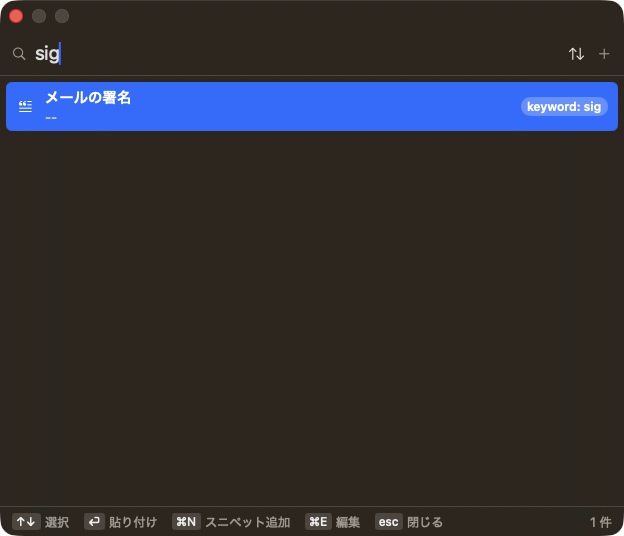
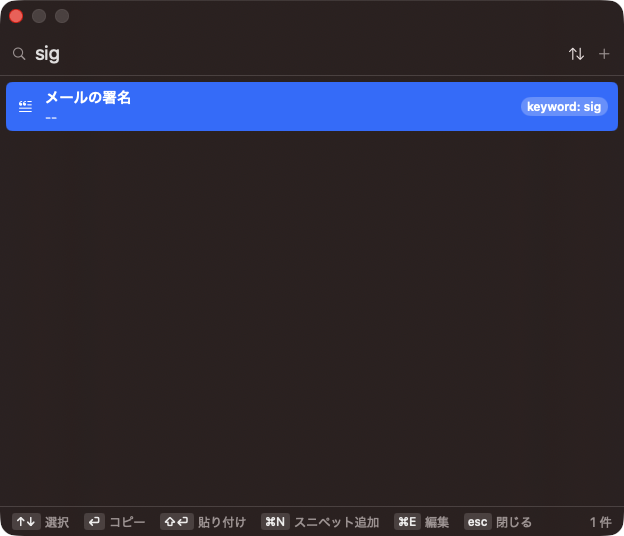
Enter の動作を「コピーのみ」「貼り付け」から選べるようにし、既定をコピーのみにする
- ConfirmAction を追加。設定「Enter の動作」で ⏎ の動作を選び、⇧⏎ でもう一方を実行
- 既定は「コピーのみ」。改行を含む内容をターミナルに貼ると各行が実行されるなど、
  意図しない場所への貼り付けを避けるため安全側に倒す
- 右クリックメニューに「貼り付け」「コピー」を追加
- 貼り付けイベントは実際に ⌘V を送ったときだけ記録する（コピーのみでは記録しない）
- フッターのキー案内を設定に合わせて切り替え、README とスクリーンショットを更新

Claude-Session: https://claude.ai/code/session_01F24vRzW3ztPqKRjyD1Ze9x

Changed region(s): [[0.1522, 0.9552, 0.8526, 1.0], [0.0913, 0.0896, 0.1218, 0.1194]]

diff --git a/Sources/Settings/SettingsView.swift b/Sources/Settings/SettingsView.swift
@@ -8,6 +8,7 @@ struct SettingsView: View {
     @AppStorage(HistoryStore.imageMaxBytesKey) private var imageMaxBytes: Int = HistoryStore.defaultImageMaxBytes
     @AppStorage(PasteEventStore.retentionDaysKey) private var retentionDays: Int = PasteEventStore.defaultRetentionDays
     @AppStorage(PanelTextSize.defaultsKey) private var textSize: PanelTextSize = .large
+    @AppStorage(ConfirmAction.defaultsKey) private var enterAction: ConfirmAction = .default
     @State private var accessibilityTrusted = AccessibilityPermission.isTrusted
     @State private var pasteEventCount = 0
     @State private var confirmClear = false
@@ -20,6 +21,17 @@ struct SettingsView: View {
         Form {
             Section("ショートカット") {
                 KeyboardShortcuts.Recorder("パネルを開く:", name: .togglePanel)
+            }
+            Section("Enter の動作") {
+                Picker("⏎ で", selection: $enterAction) {
+                    ForEach(ConfirmAction.allCases) { action in
+                        Text(action.label).tag(action)
+                    }
+                }
+                .pickerStyle(.segmented)
+                Text("もう一方の動作は ⇧⏎ で行えます。「貼り付け」は元のアプリへ ⌘V を送るため、改行を含む内容をターミナルに貼ると各行が実行されます。")
+                    .font(.caption)
+                    .foregroundStyle(.secondary)
             }
             Section("表示") {
                 Picker("パネルの文字サイズ", selection: $textSize) {
@@ -84,7 +96,7 @@ struct SettingsView: View {
                         Button("システム設定を開く") { AccessibilityPermission.openSystemSettings() }
                     }
                 }
-                Text("貼り付け（Cmd+V の送信）に必要です。")
+                Text("「貼り付け」（元のアプリへの ⌘V 送信）にだけ必要です。「コピーのみ」では使いません。")
                     .font(.caption)
                     .foregroundStyle(.secondary)
             }

diff --git a/Sources/Panel/PanelController.swift b/Sources/Panel/PanelController.swift
@@ -28,7 +28,7 @@ final class PanelController {
         panel.isReleasedWhenClosed = false
         panel.contentView = NSHostingView(rootView: PanelView(viewModel: viewModel))
 
-        viewModel.onConfirm = { [weak self] entry in self?.paste(entry) }
+        viewModel.onConfirm = { [weak self] entry, action in self?.confirm(entry, action: action) }
         viewModel.onDismiss = { [weak self] in self?.hide() }
 
         NotificationCenter.default.addObserver(
@@ -70,13 +70,19 @@ final class PanelController {
         panel.orderOut(nil)
     }
 
-    // MARK: - 貼り付け
+    // MARK: - 確定
 
-    private func paste(_ entry: PanelEntry) {
+    /// コピーのみならペーストボードに書いて閉じる。貼り付けなら Cmd+V を送り、送れたときだけ記録する。
+    private func confirm(_ entry: PanelEntry, action: ConfirmAction) {
         let target = previousApp
         hide()
-        if PasteService.paste(entry, into: target) {
-            viewModel.recordPaste(of: entry, to: target?.bundleIdentifier)
+        switch action {
+        case .copyOnly:
+            PasteService.copyToPasteboard(entry)
+        case .paste:
+            if PasteService.paste(entry, into: target) {
+                viewModel.recordPaste(of: entry, to: target?.bundleIdentifier)
+            }
         }
     }
 
@@ -133,8 +139,10 @@ final class PanelController {
         case 125: // ↓
             viewModel.moveSelection(by: 1)
             return true
-        case 36, 76: // return / enter
-            viewModel.confirmSelection()
+        case 36, 76: // return / enter（⇧ でもう一方の動作）
+            viewModel.confirmSelection(
+                action: ConfirmAction.action(enterAction: .current, shift: flags.contains(.shift))
+            )
             return true
         default:
             break

diff --git a/Sources/Panel/ConfirmAction.swift b/Sources/Panel/ConfirmAction.swift
@@ -1,0 +1,53 @@
+import Foundation
+
+/// パネルで項目を確定したときの動作。
+enum ConfirmAction: String, CaseIterable, Identifiable {
+    /// ペーストボードに書き込み、元のアプリへ Cmd+V を送る。
+    case paste
+    /// ペーストボードに書き込むだけ。Cmd+V は送らない。
+    case copyOnly
+
+    static let defaultsKey = "enterAction"
+    /// 安全側に倒し、既定では Cmd+V を送らない。
+    static let `default`: ConfirmAction = .copyOnly
+
+    var id: String { rawValue }
+
+    var label: String {
+        switch self {
+        case .paste: "貼り付け"
+        case .copyOnly: "コピーのみ"
+        }
+    }
+
+    /// キー案内に出す短い名前。
+    var shortLabel: String {
+        switch self {
+        case .paste: "貼り付け"
+        case .copyOnly: "コピー"
+        }
+    }
+
+    /// もう一方の動作。⇧⏎ に割り当てる。
+    var alternate: ConfirmAction {
+        switch self {
+        case .paste: .copyOnly
+        case .copyOnly: .paste
+        }
+    }
+
+    /// 設定されている Enter の動作。
+    static var current: ConfirmAction {
+        resolve(UserDefaults.standard.string(forKey: defaultsKey))
+    }
+
+    /// 保存された文字列から動作を決める。未設定や不正な値は既定値。
+    static func resolve(_ rawValue: String?) -> ConfirmAction {
+        ConfirmAction(rawValue: rawValue ?? "") ?? .default
+    }
+
+    /// Enter（shift なし）または ⇧⏎（shift あり）で実行する動作。
+    static func action(enterAction: ConfirmAction, shift: Bool) -> ConfirmAction {
+        shift ? enterAction.alternate : enterAction
+    }
+}

diff --git a/Sources/Panel/PanelViewModel.swift b/Sources/Panel/PanelViewModel.swift
@@ -30,8 +30,8 @@ final class PanelViewModel: ObservableObject {
     /// 項目ごとの貼り付け回数と最終貼り付け日時。
     @Published private(set) var usage: [PanelEntry.ID: UsageStats] = [:]
 
-    /// Enter で確定したときに呼ばれる。
-    var onConfirm: ((PanelEntry) -> Void)?
+    /// 項目を確定したときに呼ばれる。action は貼り付けかコピーのみか。
+    var onConfirm: ((PanelEntry, ConfirmAction) -> Void)?
     /// Esc で閉じるときに呼ばれる。
     var onDismiss: (() -> Void)?
 
@@ -94,13 +94,18 @@ final class PanelViewModel: ObservableObject {
         selectedIndex = min(max(selectedIndex + delta, 0), results.count - 1)
     }
 
-    func confirmSelection() {
+    /// 選択中の項目を確定する。action を省略すると設定された Enter の動作。
+    func confirmSelection(action: ConfirmAction? = nil) {
         guard let entry = selectedEntry else { return }
+        confirm(entry, action: action ?? ConfirmAction.current)
+    }
+
+    func confirm(_ entry: PanelEntry, action: ConfirmAction) {
         guard entry.isPastable else {
-            errorMessage = "ファイルが見つからないため貼り付けできません"
+            errorMessage = "ファイルが見つからないため\(action.label)できません"
             return
         }
-        onConfirm?(entry)
+        onConfirm?(entry, action)
     }
 
     func dismiss() {

diff --git a/Sources/Panel/PanelView.swift b/Sources/Panel/PanelView.swift
@@ -4,6 +4,7 @@ struct PanelView: View {
     @ObservedObject var viewModel: PanelViewModel
     @FocusState private var searchFocused: Bool
     @AppStorage(PanelTextSize.defaultsKey) private var textSize: PanelTextSize = .large
+    @AppStorage(ConfirmAction.defaultsKey) private var enterAction: ConfirmAction = .default
 
     private var scale: CGFloat { textSize.scale }
 
@@ -125,6 +126,9 @@ struct PanelView: View {
 
     @ViewBuilder
     private func contextMenu(for entry: PanelEntry) -> some View {
+        Button("貼り付け") { viewModel.confirm(entry, action: .paste) }
+        Button("コピー") { viewModel.confirm(entry, action: .copyOnly) }
+        Divider()
         switch entry {
         case .history:
             Button(entry.isPinned ? "ピンを外す" : "ピン留め") { viewModel.togglePinned(entry) }
@@ -138,7 +142,8 @@ struct PanelView: View {
     private var footer: some View {
         HStack(spacing: 14) {
             KeyHint(key: "↑↓", label: "選択")
-            KeyHint(key: "⏎", label: "貼り付け")
+            KeyHint(key: "⏎", label: enterAction.shortLabel)
+            KeyHint(key: "⇧⏎", label: enterAction.alternate.shortLabel)
             KeyHint(key: "⌘N", label: "スニペット追加")
             KeyHint(key: "⌘E", label: "編集")
             KeyHint(key: "esc", label: "閉じる")

diff --git a/Tests/ConfirmActionTests.swift b/Tests/ConfirmActionTests.swift
@@ -1,0 +1,31 @@
+import XCTest
+@testable import fuda
+
+final class ConfirmActionTests: XCTestCase {
+    func testDefaultIsCopyOnly() {
+        XCTAssertEqual(ConfirmAction.default, .copyOnly)
+        XCTAssertEqual(ConfirmAction.resolve(nil), .copyOnly)
+        XCTAssertEqual(ConfirmAction.resolve(""), .copyOnly)
+        XCTAssertEqual(ConfirmAction.resolve("bogus"), .copyOnly)
+    }
+
+    func testResolveKnownValues() {
+        XCTAssertEqual(ConfirmAction.resolve("paste"), .paste)
+        XCTAssertEqual(ConfirmAction.resolve("copyOnly"), .copyOnly)
+    }
+
+    func testAlternateFlips() {
+        XCTAssertEqual(ConfirmAction.paste.alternate, .copyOnly)
+        XCTAssertEqual(ConfirmAction.copyOnly.alternate, .paste)
+        for action in ConfirmAction.allCases {
+            XCTAssertEqual(action.alternate.alternate, action)
+        }
+    }
+
+    func testShiftSelectsAlternate() {
+        XCTAssertEqual(ConfirmAction.action(enterAction: .copyOnly, shift: false), .copyOnly)
+        XCTAssertEqual(ConfirmAction.action(enterAction: .copyOnly, shift: true), .paste)
+        XCTAssertEqual(ConfirmAction.action(enterAction: .paste, shift: false), .paste)
+        XCTAssertEqual(ConfirmAction.action(enterAction: .paste, shift: true), .copyOnly)
+    }
+}

diff --git a/README.md b/README.md
@@ -43,11 +43,16 @@ xcodebuild test -project fuda.xcodeproj -scheme fuda -destination 'platform=macO
 |---|---|
 | パネルを開く／閉じる | ⌘⇧V（設定で変更可） |
 | 項目を選ぶ | ↑ / ↓（または ^P / ^N） |
-| 貼り付け | ⏎ |
+| コピーのみ（既定） | ⏎ |
+| 貼り付け（元のアプリへ ⌘V を送る） | ⇧⏎ |
 | 閉じる | esc |
 | スニペットを追加 | ⌘N またはパネル右上の「+」 |
 | 選択中のスニペットを編集 | ⌘E または右クリック |
 | 履歴のピン留め・削除 | 右クリック |
+
+⏎ の動作は設定の「Enter の動作」で「コピーのみ」「貼り付け」から選べます。⇧⏎ はもう一方の動作です。
+既定を「コピーのみ」にしているのは、改行を含む内容をターミナルに貼り付けると各行がそのまま実行されるなど、
+意図しない場所への貼り付けを避けるためです。
 
 他のツールから開くには `fuda://panel` を使います。`fuda://panel?q=sig` のように `q` を付けると検索欄にその文字列を入れた状態で開きます。`fuda://settings` で設定ウィンドウが開きます。
 
@@ -55,7 +60,7 @@ xcodebuild test -project fuda.xcodeproj -scheme fuda -destination 'platform=macO
 open "fuda://panel?q=sig"
 ```
 
-初回起動時にアクセシビリティ権限のダイアログが出ます。貼り付け（元アプリへの ⌘V 送信）に必要なので、
+初回起動時にアクセシビリティ権限のダイアログが出ます。「貼り付け」（元アプリへの ⌘V 送信）にだけ必要なので、
 システム設定 > プライバシーとセキュリティ > アクセシビリティ で fuda を許可してください。
 クリップボード履歴の取得自体は権限がなくても動きます。
 
